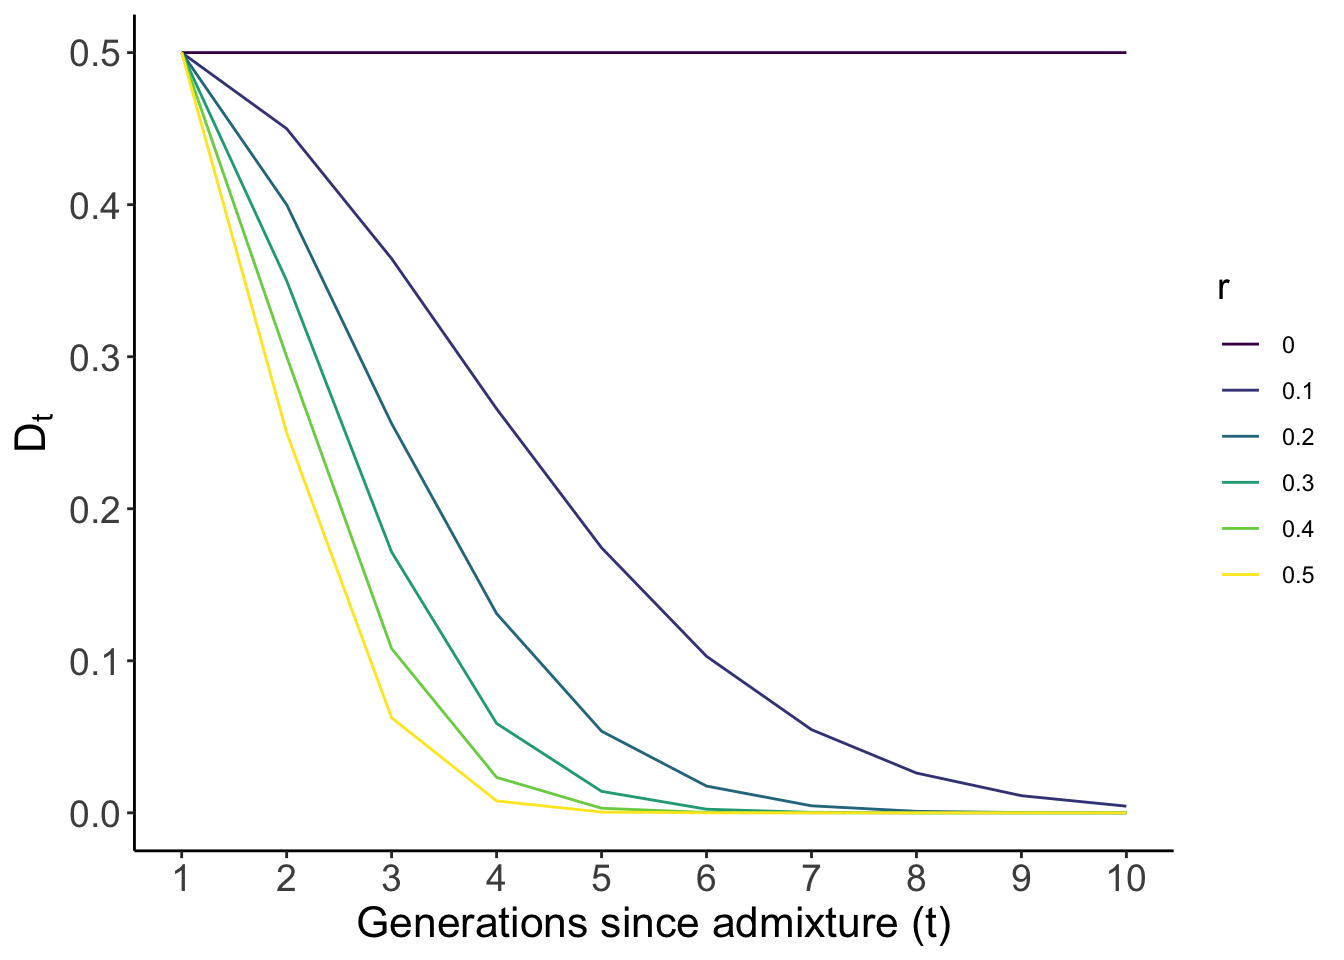
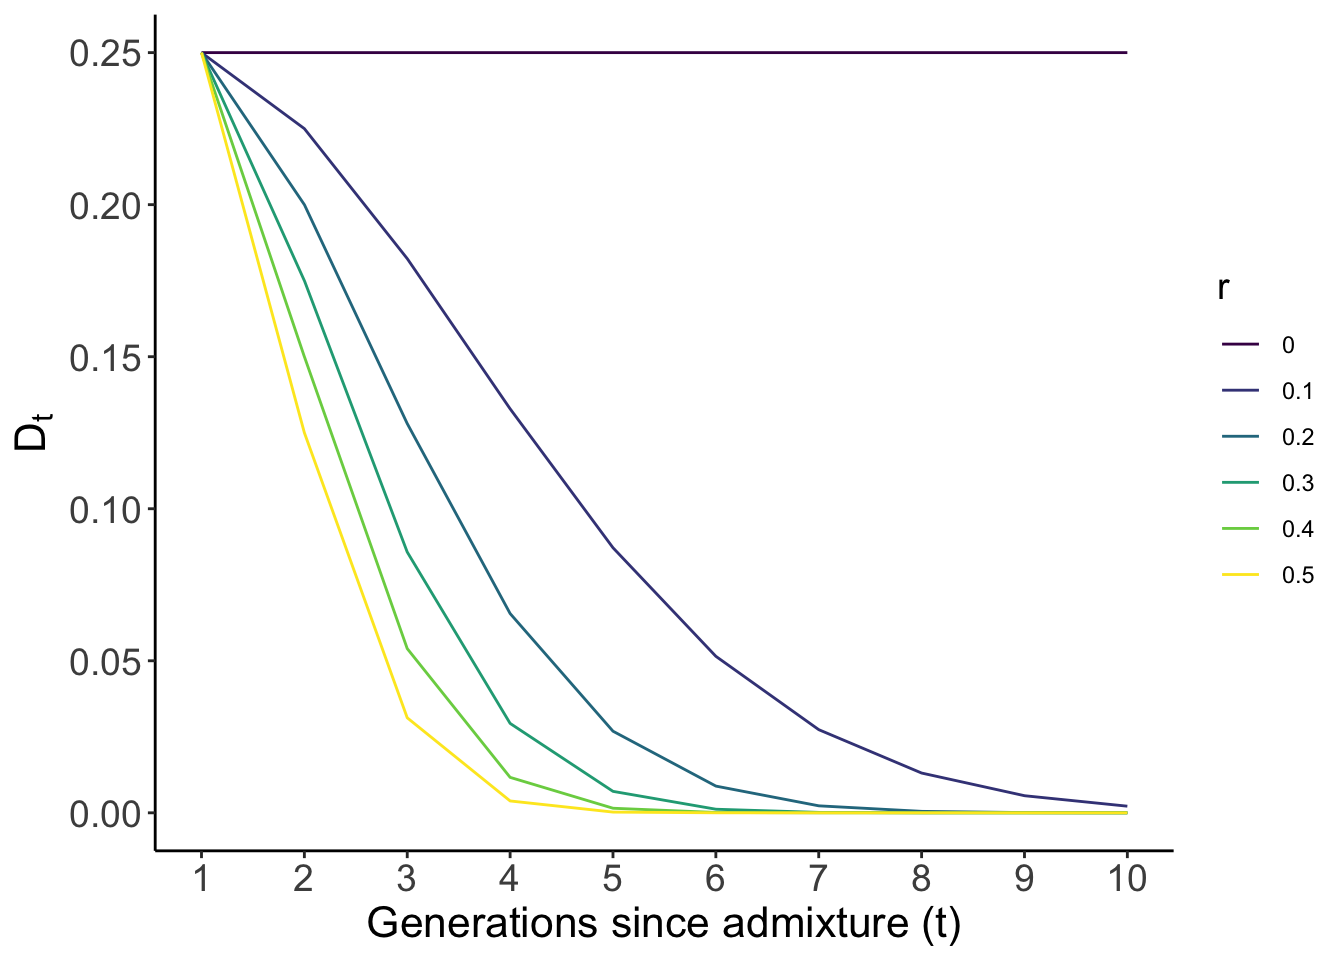
fixed max value of d0 from 0.5 to 0.25

diff --git a/content/post/2021-10-09-ld-between-loci-due-to-population-structure-admixture-2-locus-wahlund-effect/index.en.html b/content/post/2021-10-09-ld-between-loci-due-to-population-structure-admixture-2-locus-wahlund-effect/index.en.html
@@ -76,8 +76,11 @@ image(dmat, main = &quot;Admixture LD&quot;, col = heat.colors(12),
 r = seq(0, 0.5, 0.1)
 dtmat = matrix(NA, nrow = 6, ncol = 10) # matrix to store values of dt
 
+#max possible value of D0 is when alpha = 0.5 and when freq diff is 1. 
+#this leads to a max value of 0.25 
+
 for(i in 1:6){
-  dt = 0.5
+  dt = 0.25
   for(j in 1:10){
     dtmat[i,j] = dt
     dt = dt*(1 -r[i])^j
